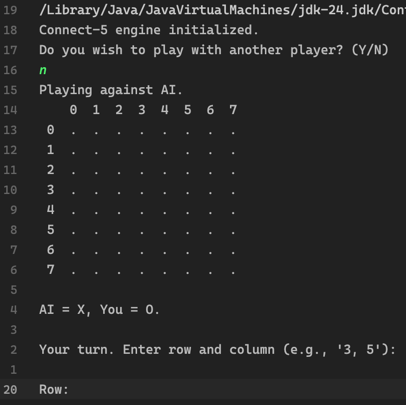
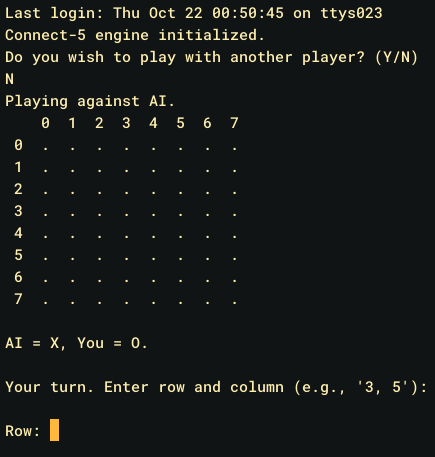
Finish description with screenshots and pseudocode

diff --git a/Gesällprov beskrivning.md b/Gesällprov beskrivning.md
@@ -12,100 +12,308 @@ finns i detta projekt också.
 
 ![img_1.png](img_1.png)
 
-*Hur konsolloutputen ser ut när två spelare möter varandra.*
+*Hur konsolloutputen ser ut för spelare 2 när en multiplayer-match startar.*
 
 ![img_2.png](img_2.png)
 
 *Hur konsolloutputen ser ut när en spelare och en AI möter varandra.*
 
+## Funktion
+
+### Start
+Programmet körs helt i terminalen. För multiplayer måste servern startas först (`server.Server`), som sedan lyssnar på port 8000 och skriver ut `Server running on port 8000.`:
+
+![funktion_server.png](funktion_server.png)
+
+*Servern har startats och väntar på klienter.*
+
+Efter det startar varje spelare en egen klient (`client.Game`). Klienten frågar direkt om man vill spela mot en annan spelare eller inte:
+
+![img.png](img.png)
+
+*Startfrågan som visas när klienten startas.*
+
+Svarar man `Y` startas multiplayer-läget och klienten ansluter till servern. Svarar man `N` startas singleplayer-läget mot AI:n, och då används ingen server alls.
+
+### Skapa och gå med i en match
+I multiplayer-läget väljer spelaren mellan `CREATE` och `JOIN`. Skriver man något annat får man ett felmeddelande och kan försöka igen. Den som skriver `CREATE` blir spelare 1 och får en rumskod på sex bokstäver utskriven. Den koden skickar man till den andra spelaren, som skriver `JOIN` och sedan koden. När spelare 2 har anslutit får båda spelarna meddelandet `Player 2 joined.` och matchen startar direkt. Bilden under Sammanfattning visar hur det ser ut för spelare 2 efter att ha gått med i ett rum: bekräftelsen, det tomma brädet och väntemeddelandet medan spelare 1 gör sitt första drag.
+
+Om rumskoden inte finns, eller om rummet redan har två spelare, svarar servern med ett felmeddelande och klienten avslutas:
+
+![funktion_join.png](funktion_join.png)
+
+*Ett ogiltigt kommando följt av ett JOIN till ett rum som inte finns.*
+
+### Ett drag
+Brädet är 8×8 och skrivs ut med rad- och kolumnnummer. Spelare 1 är `X` och spelare 2 är `O`, och spelare 1 börjar alltid. Den spelare som har turen får skriva in rad och kolumn var för sig, medan den andra ser `Waiting for other player to make their move...`. Draget kontrolleras först lokalt hos klienten: ligger det utanför brädet eller på en redan upptagen ruta får spelaren ett felmeddelande och får försöka igen, utan att något skickas till servern.
+
+![funktion_drag.png](funktion_drag.png)
+
+*Spelare 2 har just lagt sin pjäs på rad 1, kolumn 3. Brädet har uppdaterats och spelare 2 väntar nu på spelare 1:s drag.*
+
+När ett giltigt drag har skickats uppdaterar servern sitt bräde och skickar det nya brädet till båda spelarna. Därför ser båda samma bräde efter varje drag, och turen går över till den andra spelaren.
+
+### Vinst och oavgjort
+Efter varje drag kontrollerar servern om någon har fem i rad, vågrätt, lodrätt eller diagonalt. I så fall skickas ett vinstmeddelande till båda spelarna och klienterna avslutas:
+
+![funktion_vinst.png](funktion_vinst.png)
+
+*Spelare 1 vinner med fem i rad på rad 0. Samma meddelande visas hos båda spelarna.*
+
+Om hela brädet fylls utan att någon fått fem i rad blir det oavgjort, och båda spelarna får `Draw!`:
+
+![funktion_oavgjort.png](funktion_oavgjort.png)
+
+*En match där alla 64 rutor fyllts utan vinnare.*
+
+### Singleplayer
+I singleplayer-läget spelar man `O` mot AI:n, som är `X`. Människan börjar. Inmatningen fungerar på samma sätt som i multiplayer, med samma kontroller för ogiltiga drag. När det är AI:ns tur skrivs `AI is thinking...` ut medan minimax-algoritmen söker fem drag framåt. Det tar oftast bara någon sekund per drag. Tidigare var sökdjupet sex drag, men då tog varje drag ungefär en minut eftersom sökträdet växer så snabbt, så djupet sänktes till fem. När spelet är slut skrivs `You win!`, `You lose!` eller `Draw!` ut. Hur det ser ut syns i den andra bilden under Sammanfattning.
+
+### Kända begränsningar
+- I singleplayer-läget kontrolleras oavgjort före vinst. Om det sista draget både fyller brädet och ger fem i rad visas därför `Draw!` istället för en vinst. I multiplayer-läget görs kontrollerna i rätt ordning.
+- Om en spelare kopplar ner mitt i en match avbryts sessionen på servern, men den andra spelaren får inget meddelande och blir kvar och väntar på ett drag som aldrig kommer.
 
 ## Framtagande
 ### Initial idé
+![framtagande_1.png](framtagande_1.png)
+
+*Den första skissen av arkitekturen (första commiten, mars 2026): tomma klasser för `Board`, `Brain`, `Manager`, `AIPlayer`, `HumanPlayer` och ett `Player`-interface.*
+
+Min första tanke var en klassisk objektorienterad uppdelning, där människan och AI:n var två olika implementationer av ett `Player`-interface och en `Manager` styrde spelet. Jag tog bort den uppdelningen ganska snabbt. Det fanns ingen poäng med att skilja på spelare och AI, eftersom spelloopen ändå bara behöver veta vems tur det är, och en klass som heter `Manager` hade varit dålig namngivning. Istället blev det en `Game`-klass som styr spelet, med `Board` och `Brain` kvar från skissen.
+
+![framtagande_2.png](framtagande_2.png)
+
+*`Board` och `setPiece()` i en tidig version. Brädet var då hårdkodat till 15×15 och kommentarerna visar uträkningen av hur många `long`-värden som behövs.*
+
 I början tänkte jag använda mig av en vanlig 2d-intarray för att representera spelplanen/brädan \(Board), men eftersom minimax-algoritmen söker så oerhört många olika
 game states så valde jag att använda mig av en enda long\[] för att göra varje lookup så snabb och enkel som möjligt. Det gjorde
 de egna metoderna för att hämta bitar och sätta bitar lite svårare att skriva, men det var värt för optimeringens skull.
 
 ### Implementation av brädlogik
+![framtagande_3.png](framtagande_3.png)
+
+*`checkDirection()` med lathunden för `dRow` och `dCol` som kommentar ovanför metoden.*
+
 Efter den initiala bräd-representationen implementerade jag `checkDirection()` och `checkWinner()` i `Brain`, samt gjorde `Board`
 mer generell: storlek och pjäslängd (`size`, `pieceLength`) blev konstruktorparametrar istället för hårdkodade konstanter, och jag
 lade till `getLegalMoves()` samt delade upp indexeringen i en publik `getIndex()` och en privat `getInternalIndex()`.
 `checkDirection()` skrevs som en enda generell hjälpmetod som tar en riktning (`dRow`, `dCol`) istället för separata metoder för
 horisontellt/vertikalt/diagonalt, och `checkWinner()` anropar den i fyra riktningar (höger, ner, ner-höger, upp-höger) för varje
 ruta på brädet. 
-Det var lite krångligt att komma på att jag skulle generalisera `getDirection()`-metoden. I början tänkte jag att man skulle ha tre olika `getDirection()`-metoder:
+Det var lite krångligt att komma på att jag skulle generalisera `checkDirection()`-metoden. I början tänkte jag att man skulle ha tre olika `checkDirection()`-metoder:
 en för att kolla horisontellt, en för vertikalt och en för diagonala kollar. Snabbt insåg jag att det hade varit mycket smidigare att bara specificera riktning
 i metodparametrarna. Det tog en liten stund att komma på hur jag skulle göra att det funkade, men det löste sig till slut. En lathund för hur man använder metoden
 ligger som kommentar utanför metoden, mest för att jag själv skulle komma ihåg hur jag tänkte med riktnings-parametrarna (`dRow`, `dCol`).
-[FYLL I: var det svårt att komma på att generalisera till en (dRow, dCol)-metod, eller föll det sig naturligt? Var `checkWinner()`
-hårdkodad till 15x15 trots den nya `getSize()`-metoden ett problem i praktiken, eller spelade det ingen roll eftersom brädstorleken
-aldrig ändrades under körning?]
 
 ### Implementation av minimax med alpha-beta-pruning
+![framtagande_4.png](framtagande_4.png)
+
+*Den färdiga grundversionen från mars 2026 under körning. Här fanns bara singleplayer, så programmet går direkt in i ett spel mot AI:n utan att fråga om multiplayer.*
+
 Varför jag valde minimax var för att det just var det som lärdes ut under kursen jag gick (ALDA) när grundversionen av programmet skulle implementeras, 
 och vi behövde använda den för att få godkänt på uppgiften. Sedan vet jag inte om det finns ett bättre sätt att göra detta på, kanske via någon sorts lookup men 
 då hade data behövts insamlas för det vilket jag inte hade tid för.
 
 ### Utökning med nätverksfunktionalitet
 Det som saknades var att kunna spela med folk, så då valde jag att göra det som mitt Gesällprov. Mellan att den initiala implementationen blev klar (mars 2026) och att nätverksfunktionaliteten byggdes (september 2026) låg det ett uppehåll på ungefär fem månader. Detta eftersom jag hade sommaruppehåll under de månaderna, och inte än hade bestämt mig för att basera IPROG-gesällprovet på Connect5-spelet.
-funderade du på lösningen under tiden?
 
-### Uppdelning i client/server/share
-Jag ville mest bara lära mig hur det funkar med client/server-logik. Det innebar att `Game.java` delades upp i en `client`-variant,
+### Uppdelning i client/server/shared
+![framtagande_5.png](framtagande_5.png)
+
+*Matchloopen i den första versionen av `GameSession` (september 2026). Siffrorna `// 1` och `// 2` i kommentarerna är numreringen av läsningar och skrivningar som beskrivs nedan.*
+
+Jag ville mest bara lära mig mer om hur det funkar med client/server-logik, och hur den implementeras i lite större skala. Det innebar att `Game.java` delades upp i en `client`-variant,
 att `Server` och `GameSession` skapades från grunden på serversidan, och att `Board`/`Brain` flyttades till ett gemensamt
 `shared`-paket som både klient och server använder.
 
-Något som var oväntat svårt i att implemnentera detta var att hålla koll på vilka read/writes som hörde till varandra. Jag behövde numrera 
+Något som var oväntat svårt med implementeringen var att hålla koll på vilka read/writes som hörde till varandra. Jag behövde numrera 
 varje anrop för att hitta ordningen; något som tog upp en större del av den totala arbetstiden än vad jag hade önskat. Annars gick detta ganska smidigt,
-och när jag v
-[FYLL I: vad var svårast med övergången till client/server — protokolldesignen (vad som skickas i vilken ordning), att hantera
-flera anslutna klienter samtidigt i `GameSession`, eller något annat som trådsäkerhet/synkronisering? Ett konkret exempel eller
-en bugg du stötte på här skulle stärka reflektionen mycket.]
+och när jag väl hade delat upp allt i klasserna jag ville ha kom resten av koden ganska naturligt.
 
-<!--
-TODO (2 sidor eller mer, text och bild): beskriv i minst 5 steg hur
-utvecklingen från tanke till färdig produkt har skett. Ta med eventuella
-skisser på helheten och visa/beskriv hur koden har förändrats under
-utvecklingen.
+### Testning och buggfixar
+![framtagande_6.png](framtagande_6.png)
 
-Din git-historik ger en bra utgångspunkt för stegen, t.ex.:
-1. Initial idé och arkitektur (bräde som lagras bitvis, spelarklasser)
-2. Implementation av brädlogik (setPiece, checkWinner, checkDirection)
-3. Implementation av minimax med alpha-beta-pruning för AI-motståndaren
-4. Beslut att utöka projektet med nätverksfunktionalitet (klient-server)
-5. Uppdelning i client/server/shared-paket, implementation av Server och
-   GameSession för multiplayer
-(fyll i med egna reflektioner, svårigheter, vägval och varför du gjorde
-som du gjorde i varje steg)
--->
+*En del av ändringen i `GameSession` som lade till hantering av oavgjort i multiplayer-läget (oktober 2026). Gröna rader är tillagda och röda är borttagna.*
+
+När jag skrev pseudokoden för beskrivningen gick jag igenom koden steg för steg, och då hittade jag flera brister. Multiplayer-läget hade ingen kontroll för oavgjort, så om brädet blev fullt utan vinnare fortsatte spelet att be om drag som inte gick att göra. En spelare som försökte gå med i ett rum som inte fanns, eller som redan var fullt, fick inget svar alls och blev hängande. Den inre loopen i `GameSession` visade sig också alltid köras exakt en gång, eftersom ogiltiga drag redan stoppas hos klienten, så den togs bort. Till sist upptäckte jag, när jag tog skärmdumparna till den här beskrivningen, att hela servern stängdes av om en klient kopplade ner innan den hade skickat `CREATE` eller `JOIN`. Felhanteringen omslöt hela serverloopen, så den flyttades till att gälla en klient i taget. Alla fyra fixarna testades genom att köra servern och klienterna och spela igenom just de fallen.
 
 ## Form
 
-<!--
-TODO (2 sidor eller mer, text och bild): beskriv hur koden i det färdiga
-programmet är uppbyggd och fungerar. Ta med exempel på centrala
-kod-avsnitt samt beskriv hur helheten fungerar med pseudokod.
+### Paketstruktur
+Koden är uppdelad i tre paket: `client`, `server` och `shared`.
 
-Tänk på att:
-- Beskriva paketstrukturen (client/server/shared) och varför den ser ut så
-- Förklara hur brädet representeras (bitpackning i long[]) och varför
-- Förklara minimax/alpha-beta-algoritmen på hög nivå
-- Förklara nätverksprotokollet mellan klient och server (CREATE/JOIN-flödet,
-  vad som skickas i vilken ordning)
-- Pseudokoden ska följa syntaxen på länken i uppgiftsbeskrivningen
-  (05_ass/final/pseudocode) - skriv den själv utifrån din egen kod,
-  inget facit finns med avsikt.
--->
+- `client` innehåller `Game`, som är spelarens ingångspunkt oavsett om man spelar singleplayer eller multiplayer. Den tar emot inmatning, skriver ut brädet och sköter i multiplayer-läget kommunikationen med servern.
+- `server` innehåller `Server`, som tar emot anslutningar och hanterar `CREATE`- och `JOIN`-förfrågningar, samt `GameSession`, som kör en match mellan två spelare i en egen tråd.
+- `shared` innehåller `Board` och `Brain`, som används av både klient och server. `Board` håller reda på brädet, vilka drag som är tillåtna och om någon har vunnit. `Brain` är AI:n, som väljer drag med minimax-algoritmen och alpha-beta-pruning. Eftersom klient och server använder samma `Board` finns spelreglerna bara på ett ställe.
 
-## Funktion
+### Nätverksprotokoll
+Flödet för en multiplayer-match:
 
-<!--
-TODO (2 sidor eller mer, text och bild): beskriv hur det färdiga
-programmet fungerar och ser ut under körning.
+1. Klienten ansluter till servern och skickar `CREATE` eller `JOIN`. Vid `JOIN` skickas även rumskoden.
+2. Vid `CREATE` skapar servern en ny spelsession med en slumpad rumskod och skickar tillbaka koden. Klienten blir spelare 1.
+3. Vid `JOIN` letar servern upp sessionen. Om den finns och inte är full blir klienten spelare 2, båda spelarna får en bekräftelse och sessionen startas i en egen tråd. Annars får klienten ett felmeddelande och avslutas.
+4. I varje runda skickar sessionen brädet till båda spelarna.
+5. Om någon har vunnit, eller om brädet är fullt, skickas resultatet till båda spelarna och matchen avslutas. Annars skickas vems tur det är.
+6. Spelaren vars tur det är skickar sitt drag, servern lägger in det på brädet och nästa runda börjar.
 
-Tänk på att:
-- Visa/beskriv startflödet (singleplayer vs multiplayer-val)
-- Visa/beskriv hur en multiplayer-match skapas och joinas (rumskod)
-- Visa/beskriv hur ett drag görs och hur brädet uppdateras hos båda spelare
-- Visa/beskriv vinst/oavgjort-fallen
-- Skärmdumpar av terminalen under körning passar bra här
--->
+### Hur programmet fungerar i pseudokod 
+```code
+# Server
+sessions start empty
+
+loop
+
+  pause loop until client arrives
+
+  request = getClientOutput()
+  if request == "CREATE" then
+    roomCode = random six letters
+    sessions(roomCode) = new GameSession with matching room code
+    send room code to client
+   
+  else 
+      
+    if request == "JOIN" then
+      roomCode = getClientOutput()
+      session = sessions(roomCode)
+
+      if session exists and that session doesn't have a player 2 then
+        assign to matching room
+        broadcast "Player 2 joined." to both clients
+        GameSession(session)&
+
+      else
+
+        send error message to client that tried to join unavailable room
+
+return ""
+```
+
+
+```code
+# GameSession
+
+playerTurn = 1
+
+the board starts empty
+
+loop
+  send board state to clients
+
+  if there is a winner then
+    send winner message to both clients
+    exit
+
+  else
+    if there is a draw then
+      send draw message to both clients
+      exit
+  
+    else
+      send playerTurn to both clients
+      read row and col variables from player whose turn it is
+      set player piece on internal board
+
+  flip playerTurn to other player
+
+return ""
+```
+
+```code
+# Game
+
+if player wants multiplayer game then 
+  startMultiplayerGame()
+
+else
+  if player wants singleplayer game then
+    startSingleplayerGame()
+
+
+return ""
+
+# startMultiplayerGame
+connect to Server
+
+loop
+  ask user if they want to CREATE or JOIN room
+  
+  answer = user input
+  
+  if answer == "CREATE" or answer == "JOIN" then
+    exit
+  else
+    show error message
+
+if answer == "CREATE" then
+  send "CREATE" to Server
+  get room code from Server
+  show room code to client terminal
+
+if answer == "JOIN" then
+  send "JOIN" to Server
+  ask user for room code
+  send room code to Server
+
+receive confirmation
+show confirmation to user
+
+if confirmation != "Player 2 joined." then
+  return ""
+
+loop 
+  receive board from GameSession
+  print board to client terminal
+
+  if there is winner or draw then
+    show result message from GameSession
+    exit
+
+  else
+    receive whose turn it is
+    if it is client's turn then
+
+      loop
+        read row and col from user
+
+        if move is valid then
+          exit
+
+        else 
+          show error message
+      send row and col to GameSession
+
+    else
+      print that client is waiting for other player to make move
+
+return ""
+
+# startSingleplayerGame
+human player starts
+
+loop
+  print board
+  if there is draw or winner then
+    show result
+    exit
+ 
+  if it's player's turn then
+    loop
+      read row and col from player
+
+      if move is valid then
+        exit
+
+      show error message
+
+  else
+    show AI thinking dialogue
+    AI calculates move
+  
+  set piece to board
+
+  flip player turn
+  
+return ""
+```
+
